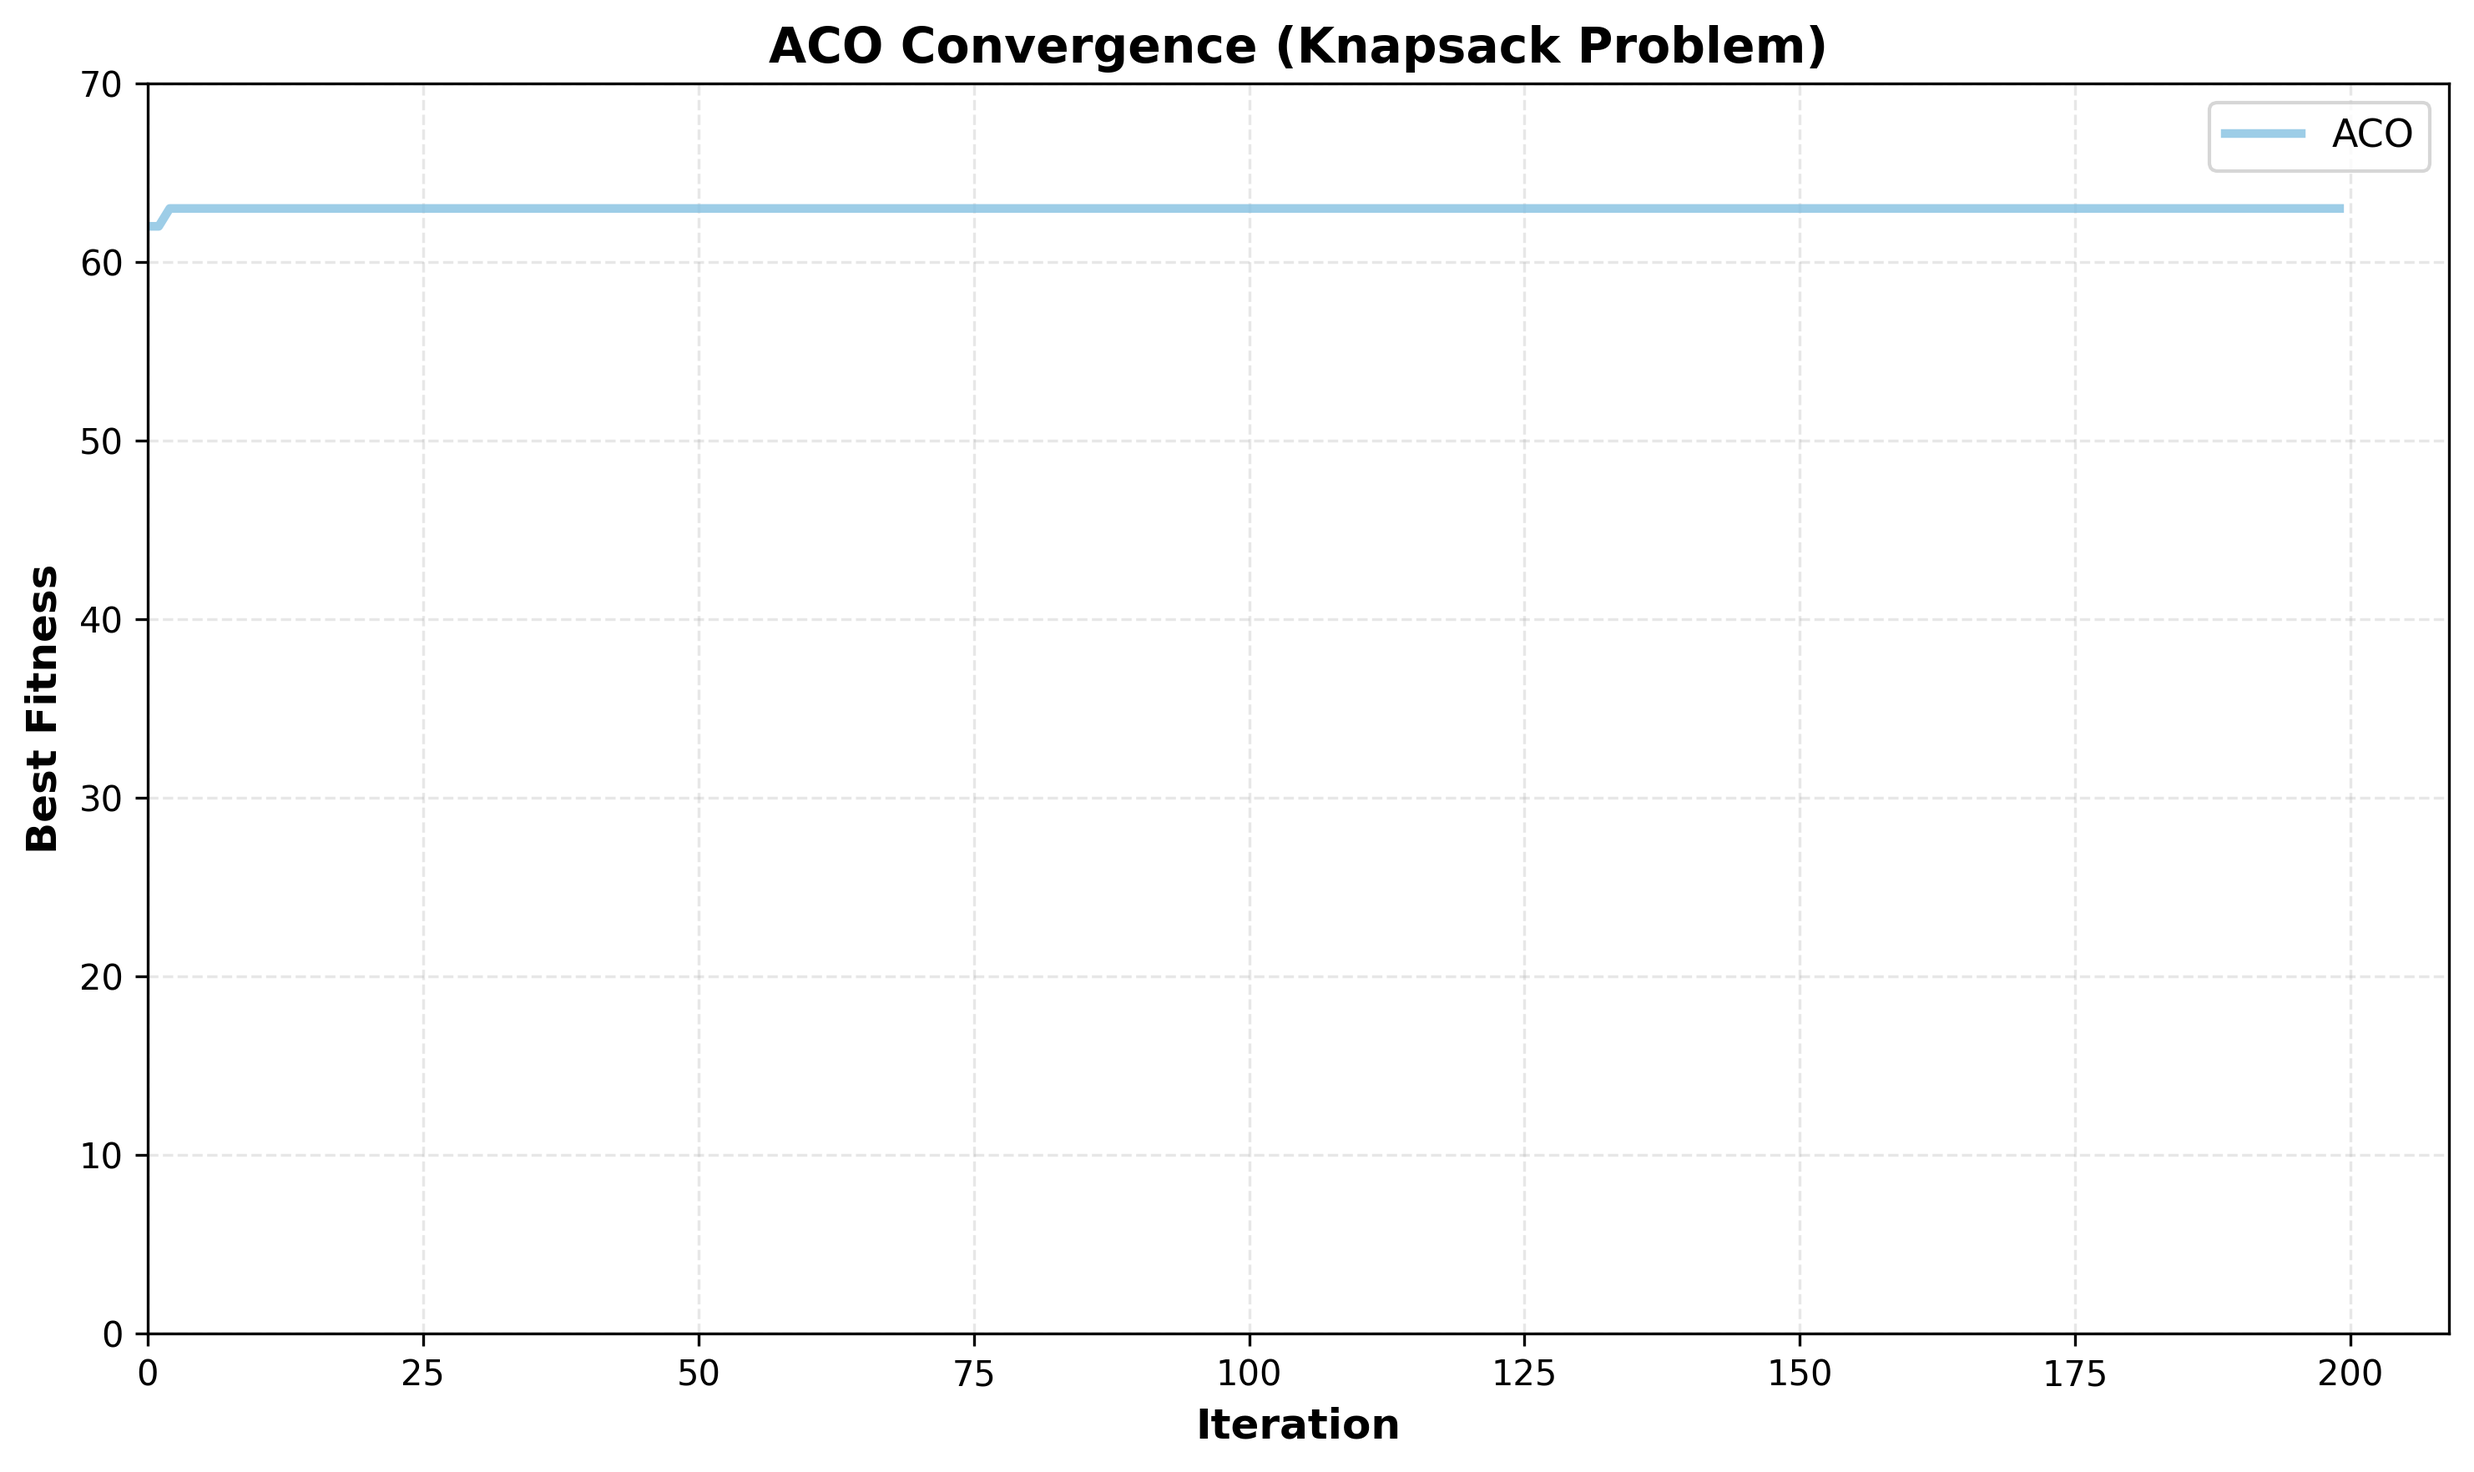
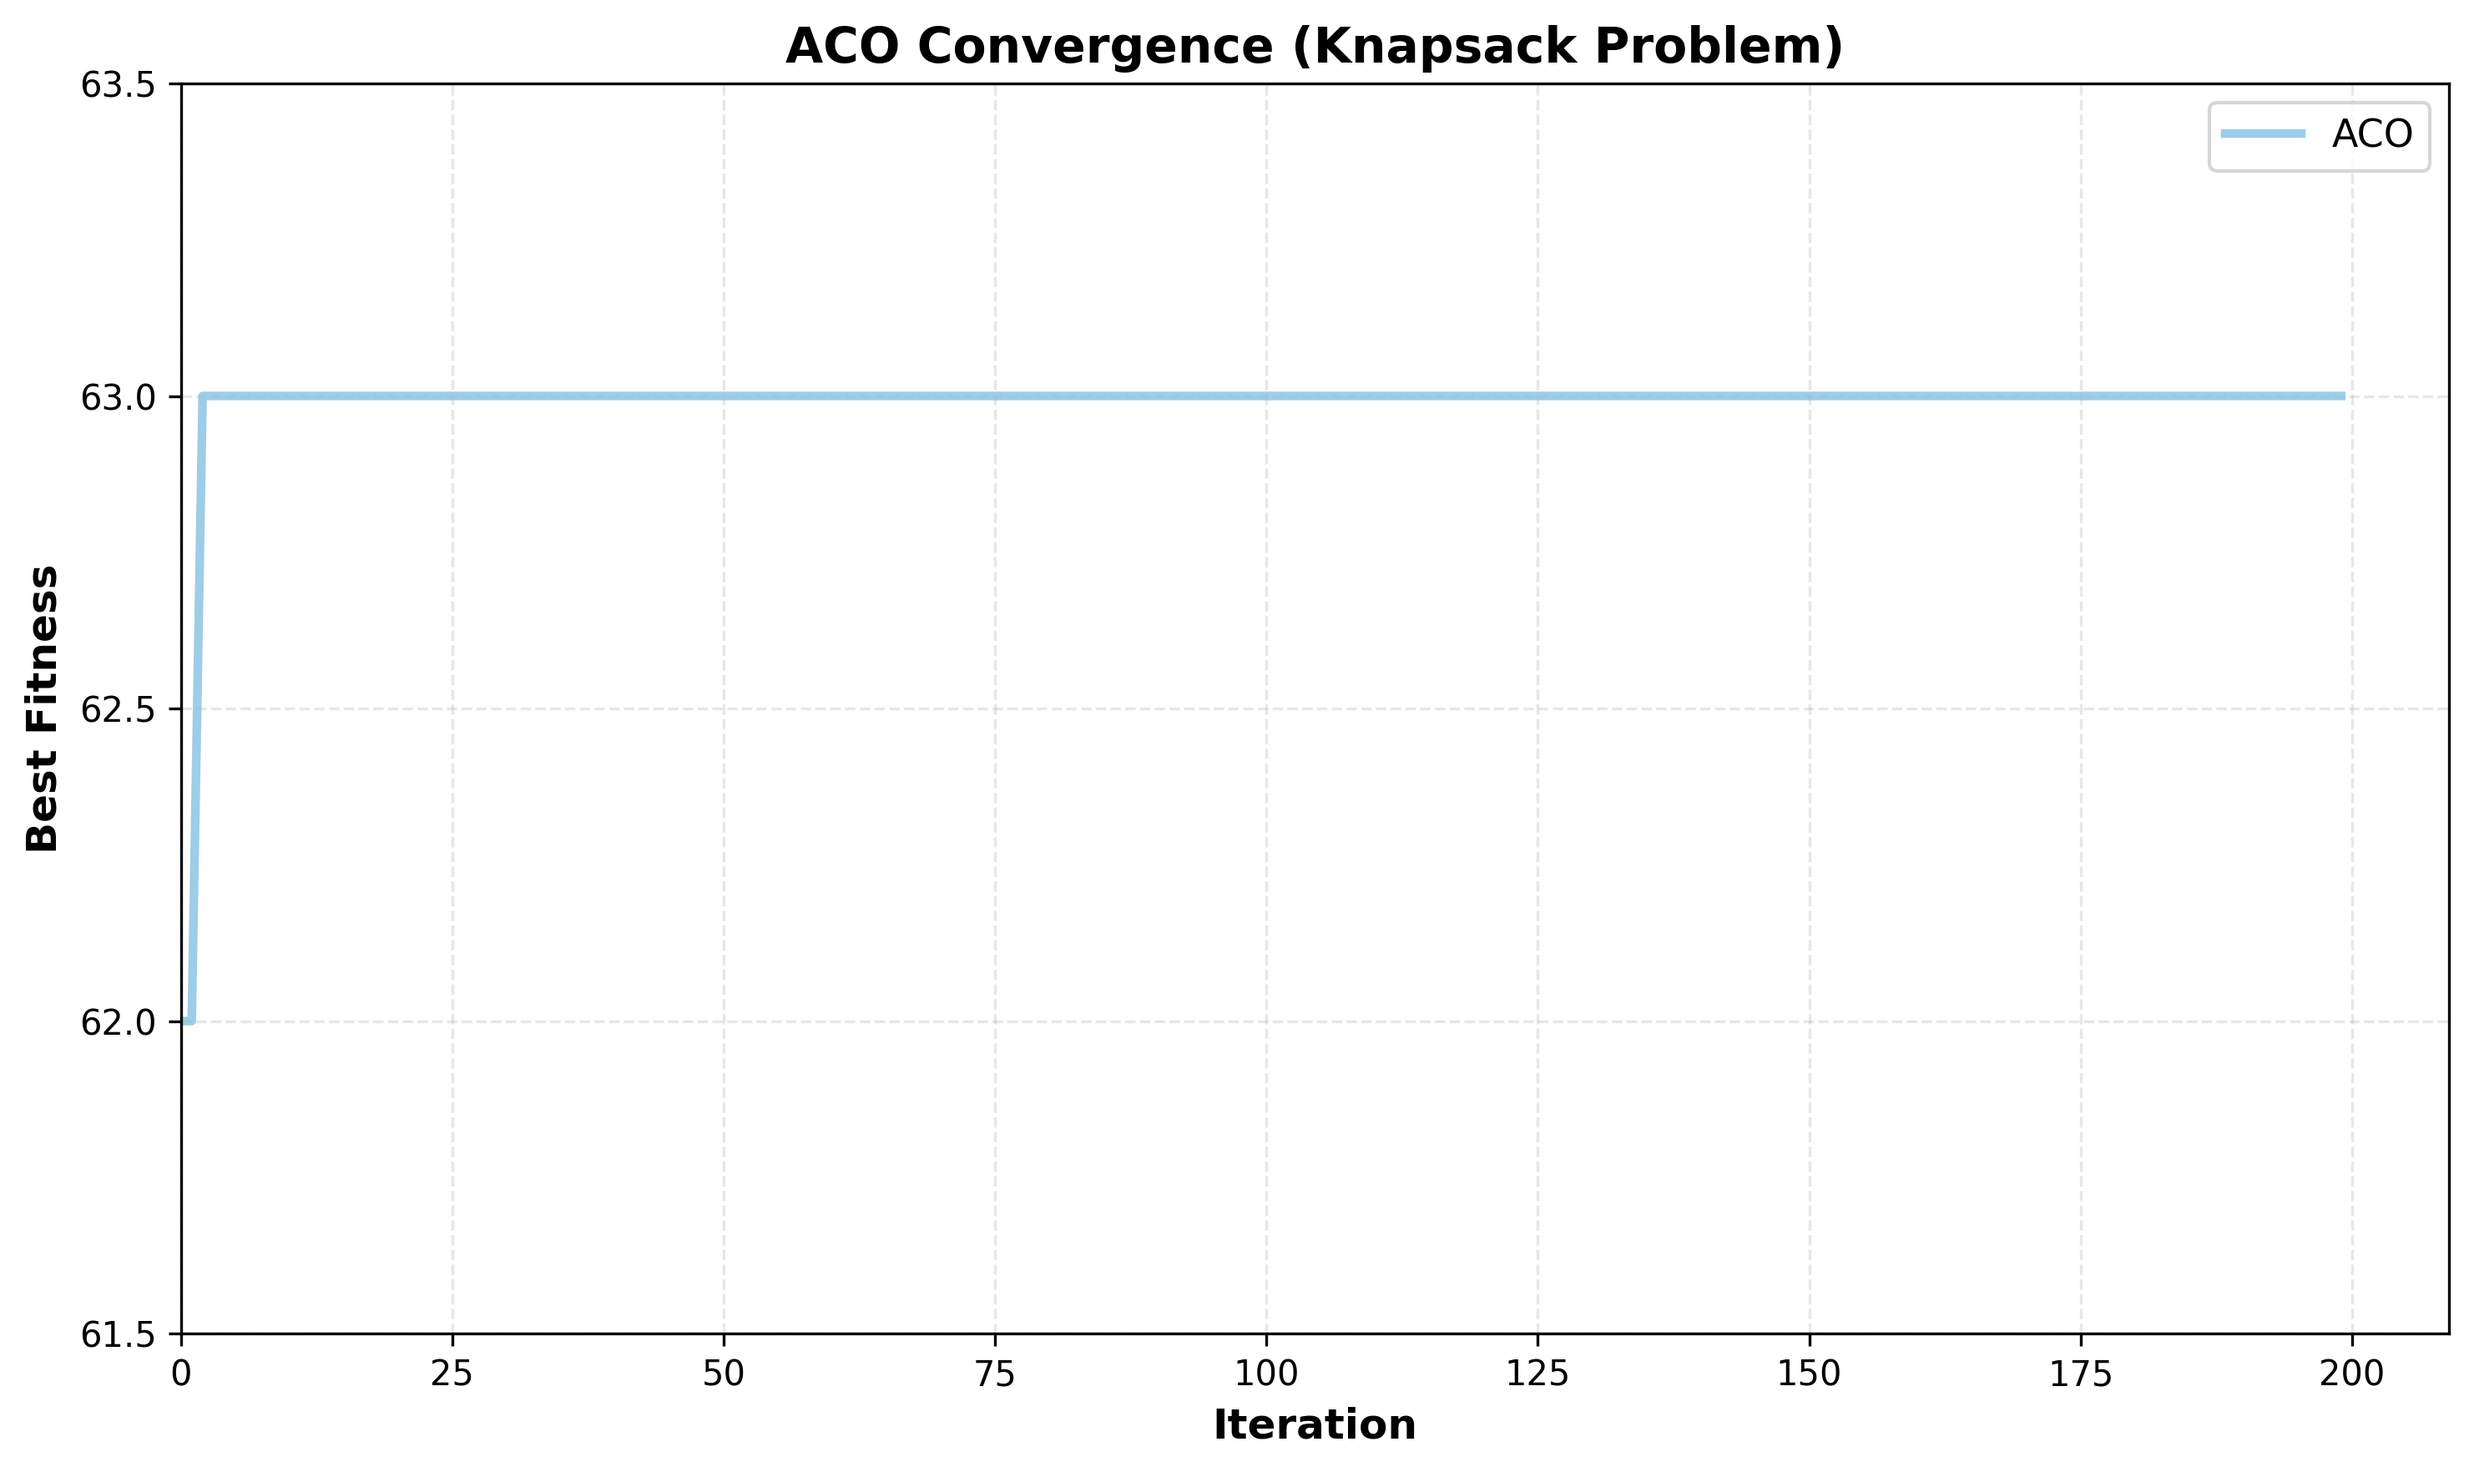
[Fix] Make some fix to when to use broken axis

diff --git a/src/visualization/visualize_experiments.py b/src/visualization/visualize_experiments.py
@@ -189,18 +189,15 @@ def plot_convergence_individual(results_dict, problem_type='sphere', save_dir='s
         y_max = max_fitness + y_padding
         y_min = max(0, min_fitness - y_padding)
         
-        # Set y-axis limits and ticks
+        # Set y-axis limits and ticks with less detailed spacing
         ax.set_ylim(y_min, y_max)
         
-        if problem_type == 'knapsack':
-            # Less detailed ticks for knapsack (larger steps)
-            step = max(10, int((y_max - y_min) / 5))
-            y_ticks = np.arange(0, int(y_max) + step, step)
-        else:
-            # More detailed ticks for sphere (smaller steps)
-            step = max(1, int((y_max - y_min) / 10))
-            y_ticks = np.arange(0, int(y_max) + step, step)
-        
+        # Use nice tick step to get clean, readable ticks (max 5-6 ticks)
+        data_range = y_max - y_min
+        tick_step = get_nice_tick_step(data_range, max_ticks=5)
+        y_min_tick = np.floor(y_min / tick_step) * tick_step
+        y_max_tick = np.ceil(y_max / tick_step) * tick_step
+        y_ticks = np.arange(y_min_tick, y_max_tick + tick_step, tick_step)
         ax.set_yticks(y_ticks)
         
         ax.legend(loc='upper right', fontsize=11)
@@ -242,15 +239,12 @@ def plot_convergence_combined(results_dict, problem_type='sphere', save_path=Non
     
     ax.set_ylim(y_min, y_max)
     
-    if problem_type == 'knapsack':
-        # Less detailed ticks for knapsack (larger steps)
-        step = max(10, int((y_max - y_min) / 5))
-        y_ticks = np.arange(0, int(y_max) + step, step)
-    else:
-        # More detailed ticks for sphere (smaller steps)
-        step = max(1, int((y_max - y_min) / 10))
-        y_ticks = np.arange(0, int(y_max) + step, step)
-    
+    # Use nice tick step to get clean, readable ticks (max 5-6 ticks)
+    data_range = y_max - y_min
+    tick_step = get_nice_tick_step(data_range, max_ticks=5)
+    y_min_tick = np.floor(y_min / tick_step) * tick_step
+    y_max_tick = np.ceil(y_max / tick_step) * tick_step
+    y_ticks = np.arange(y_min_tick, y_max_tick + tick_step, tick_step)
     ax.set_yticks(y_ticks)
     
     ax.legend(loc='upper right', fontsize=11, framealpha=0.9, ncol=2)
@@ -276,7 +270,7 @@ def plot_runtime_bar(results_dict, problem_type='sphere', save_path=None):
     data_range = max_runtime - min_runtime
     
     # Calculate nice tick step
-    tick_step = get_nice_tick_step(data_range, max_ticks=20)
+    tick_step = get_nice_tick_step(data_range, max_ticks=10)
     
     # Calculate how many ticks would appear with this step
     num_ticks = int(np.ceil(data_range / tick_step)) + 1
@@ -286,8 +280,11 @@ def plot_runtime_bar(results_dict, problem_type='sphere', save_path=None):
     gaps = [sorted_runtimes[i+1] - sorted_runtimes[i] for i in range(len(sorted_runtimes)-1)]
     max_gap = max(gaps) if len(gaps) > 0 else 0
     
+    # Use broken axis only if:
+    # 1. Number of ticks would be reasonable (<= 15) with normal axis, OR
+    # 2. There's a truly large gap (> 30% of range) that creates visual issues
     gap_percentage = (max_gap / data_range * 100) if data_range > 0 else 0
-    use_broken_axis = (num_ticks > 30) 
+    use_broken_axis = (num_ticks > 15) or (gap_percentage > 30 and data_range > 0.1)
     
     if use_broken_axis:
         fig, (ax1, ax2) = plt.subplots(
@@ -314,8 +311,8 @@ def plot_runtime_bar(results_dict, problem_type='sphere', save_path=None):
         lower_values = [v for v in runtimes if v < upper_min]
         
         if len(upper_values) > 0 and len(lower_values) > 0:
-            upper_max = max(upper_values) * 1.20
-            lower_max = max(lower_values) * 1.25
+            upper_max = max(upper_values) * 1.15
+            lower_max = max(lower_values) * 1.2
             
             # Top subplot: show upper portion (from upper_min to value) for high values
             upper_indices = [i for i, v in enumerate(runtimes) if v >= upper_min]
@@ -406,16 +403,11 @@ def plot_runtime_bar(results_dict, problem_type='sphere', save_path=None):
         ax.set_xticks(x)
         ax.set_xticklabels(algorithms)
         
-        # Set adaptive y-axis ticks with increased padding
-        tick_step = get_nice_tick_step(data_range, max_ticks=20)
+        # Set adaptive y-axis ticks
+        tick_step = get_nice_tick_step(data_range, max_ticks=10)
         y_min = np.floor(min_runtime / tick_step) * tick_step
         y_max = np.ceil(max_runtime / tick_step) * tick_step
-        # Add padding: 5% at bottom, 10% at top
-        padding_bottom = (y_max - y_min) * 0.05
-        padding_top = (y_max - y_min) * 0.10
-        y_min = max(0, y_min - padding_bottom)
-        y_max = y_max + padding_top
-        y_ticks = np.arange(np.floor(y_min / tick_step) * tick_step, y_max + tick_step, tick_step)
+        y_ticks = np.arange(y_min, y_max + tick_step, tick_step)
         ax.set_yticks(y_ticks)
         ax.set_ylim(y_min, y_max)
         
@@ -443,7 +435,7 @@ def plot_memory_bar(results_dict, problem_type='sphere', save_path=None):
     data_range = max_memory - min_memory
     
     # Calculate nice tick step
-    tick_step = get_nice_tick_step(data_range, max_ticks=20)
+    tick_step = get_nice_tick_step(data_range, max_ticks=10)
     
     # Calculate how many ticks would appear with this step
     num_ticks = int(np.ceil(data_range / tick_step)) + 1
@@ -457,7 +449,7 @@ def plot_memory_bar(results_dict, problem_type='sphere', save_path=None):
     # 1. Number of ticks would be unreasonable (> 15) with normal axis, OR
     # 2. There's a truly large gap (> 30% of range) that creates visual issues
     gap_percentage = (max_gap / data_range * 100) if data_range > 0 else 0
-    use_broken_axis = (num_ticks > 30) or (gap_percentage > 30 and data_range > 5)
+    use_broken_axis = (num_ticks > 20) or (gap_percentage > 30 and data_range > 5)
     
     if use_broken_axis:
         fig, (ax1, ax2) = plt.subplots(
@@ -485,8 +477,8 @@ def plot_memory_bar(results_dict, problem_type='sphere', save_path=None):
         lower_values = [v for v in memories if v < upper_min]
         
         if len(upper_values) > 0 and len(lower_values) > 0:
-            upper_max = max(upper_values) * 1.20
-            lower_max = max(lower_values) * 1.25
+            upper_max = max(upper_values) * 1.15
+            lower_max = max(lower_values) * 1.2
             
             # Top subplot: show upper portion (from upper_min to value) for high values
             upper_indices = [i for i, v in enumerate(memories) if v >= upper_min]
@@ -577,16 +569,11 @@ def plot_memory_bar(results_dict, problem_type='sphere', save_path=None):
         ax.set_xticks(x)
         ax.set_xticklabels(algorithms)
         
-        # Set adaptive y-axis ticks with increased padding
+        # Set adaptive y-axis ticks
         tick_step = get_nice_tick_step(data_range, max_ticks=10)
         y_min = np.floor(min_memory / tick_step) * tick_step
         y_max = np.ceil(max_memory / tick_step) * tick_step
-        # Add padding: 5% at bottom, 10% at top
-        padding_bottom = (y_max - y_min) * 0.05
-        padding_top = (y_max - y_min) * 0.10
-        y_min = max(0, y_min - padding_bottom)
-        y_max = y_max + padding_top
-        y_ticks = np.arange(np.floor(y_min / tick_step) * tick_step, y_max + tick_step, tick_step)
+        y_ticks = np.arange(y_min, y_max + tick_step, tick_step)
         ax.set_yticks(y_ticks)
         ax.set_ylim(y_min, y_max)
         

diff --git a/src/experiment/run_sphere.py b/src/experiment/run_sphere.py
@@ -18,7 +18,7 @@ from src.problem.continuous.sphere import sphere
 N_RUNS = 1
 DIMS = [30]
 POP_SIZES = [50]
-MAX_ITERATIONS = 500
+MAX_ITERATIONS = 250
 LOWER_BOUND = -5.12
 UPPER_BOUND = 5.12
 SEED = 42
